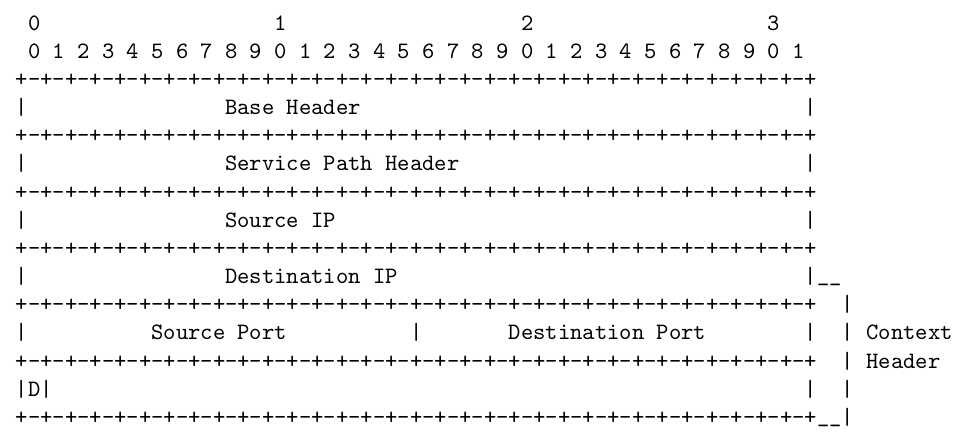
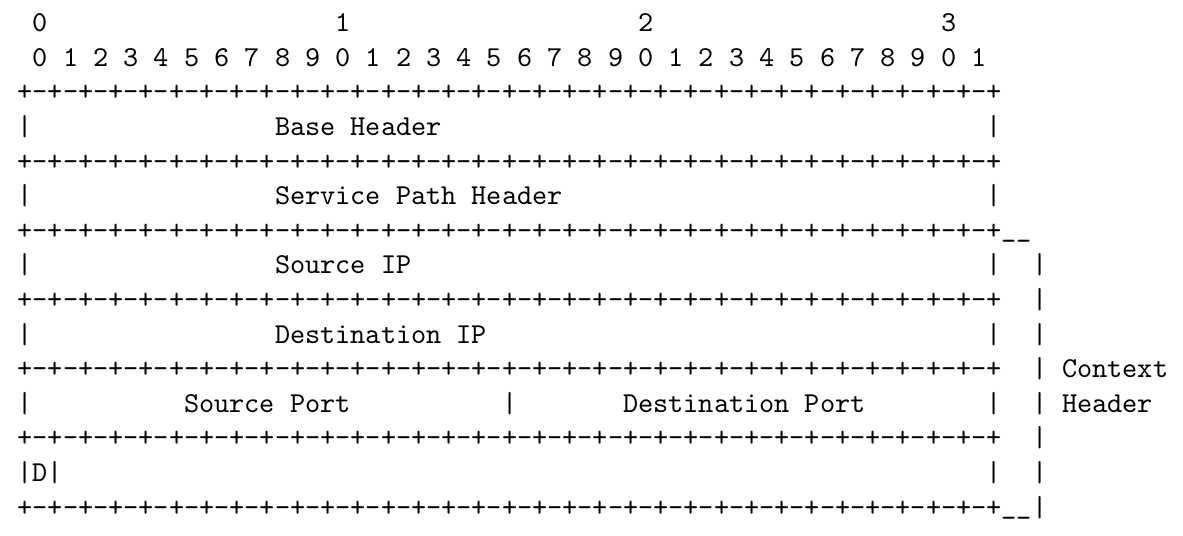
Fix nsh image

diff --git a/res/sections/20-VNFImplementaton.tex b/res/sections/20-VNFImplementaton.tex
@@ -496,7 +496,7 @@ exchanged within the header to be as independent as possible to the header
 typology, and the semantic is represented in Figure~\ref{chap:impl:img:nsh}.
 
 \begin{figure}
-  \centering \includegraphics[scale=0.5]{nshsol}
+  \centering \includegraphics[width=\textwidth]{nshsol}
   \caption{NSH Fixed-Length Context Header field usage}
   \label{chap:impl:img:nsh}
 \end{figure}
